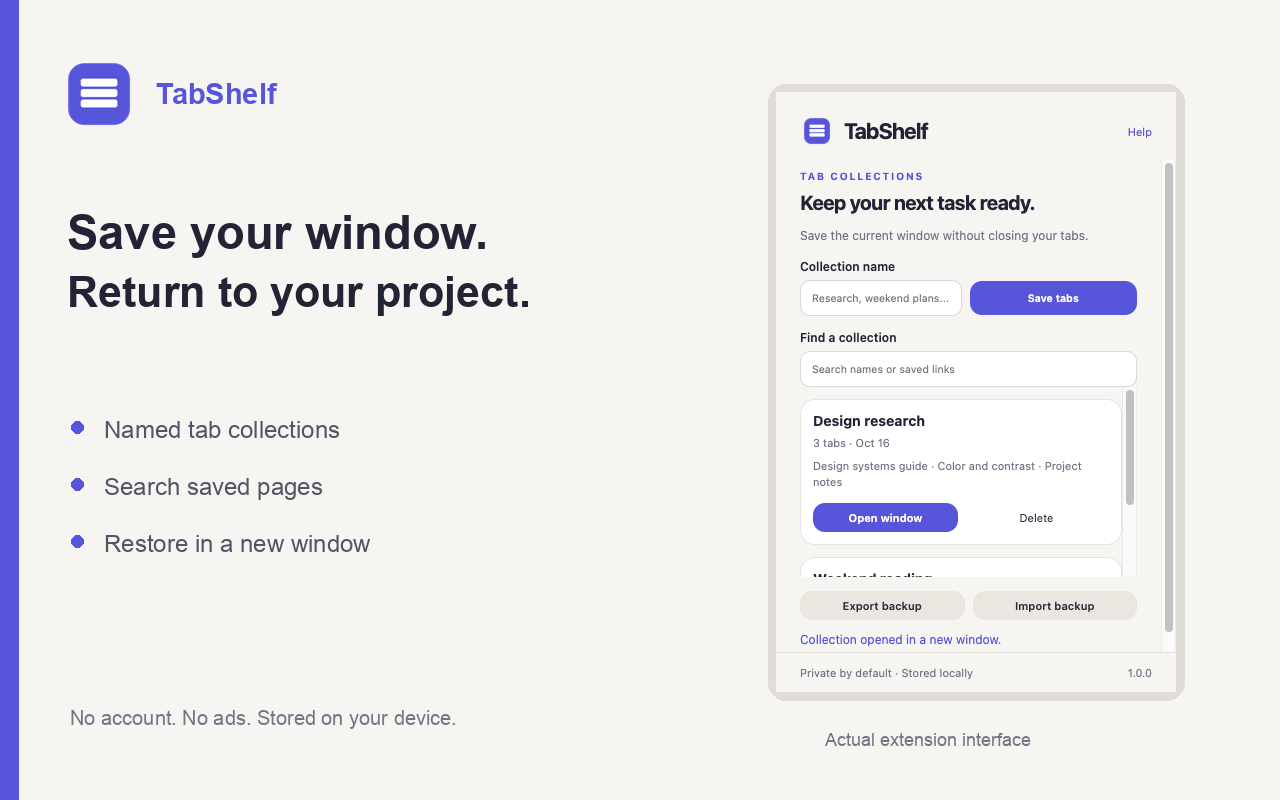
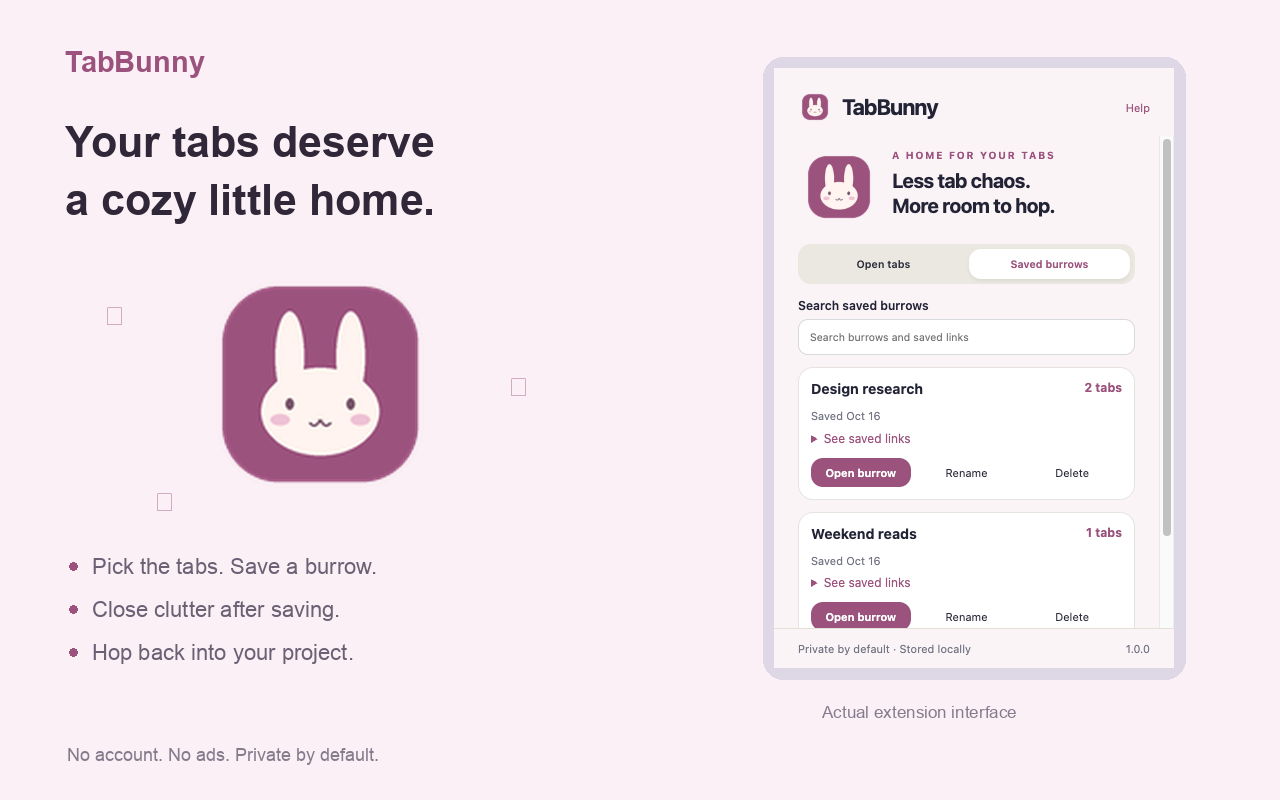
Launch new brand, expanded workflows, and store presentation

diff --git a/extension/popup.js b/extension/popup.js
@@ -1,12 +1,14 @@
 import {$,status,node,download,formatDate,confirmDelete} from './shared.js';
-import {uniqueTabs,parseBackup} from './model.js';
-let collections=[];
-async function load(){collections=(await chrome.storage.local.get('collections')).collections||[];render();}
-function render(){const box=$('#collections');box.replaceChildren();const q=$('#search').value.toLowerCase();const list=collections.filter(c=>[c.name,...c.tabs.map(t=>t.title+' '+t.url)].join(' ').toLowerCase().includes(q));if(!list.length)box.append(node('div',collections.length?'No matching collections.':'Your next task starts here. Save a window to create your first collection.','empty'));for(const c of list){const card=node('article',undefined,'card');card.append(node('h3',c.name),node('p',`${c.tabs.length} tabs · ${formatDate(c.createdAt)}`,'muted'));const preview=node('p',c.tabs.slice(0,3).map(t=>t.title).join(' · '),'muted');card.append(preview);const actions=node('div',undefined,'actions');const restore=node('button','Open window','primary small');restore.onclick=async()=>{restore.disabled=true;try{const win=await chrome.windows.create({url:c.tabs.map(t=>t.url),focused:true});const tabs=await chrome.tabs.query({windowId:win.id});for(let i=0;i<c.tabs.length;i++)if(c.tabs[i].pinned&&tabs[i])await chrome.tabs.update(tabs[i].id,{pinned:true});status('Collection opened in a new window.');}catch{status('Could not open the collection. Try again.');}finally{restore.disabled=false;}};const del=node('button','Delete','quiet small');del.onclick=async()=>{if(!confirmDelete(`Delete "${c.name}"?`))return;try{const latest=(await chrome.storage.local.get('collections')).collections||[];await chrome.storage.local.set({collections:latest.filter(x=>x.id!==c.id)});await load();status('Collection deleted.');}catch{status('Could not delete. Try again.');}};actions.append(restore,del);card.append(actions);box.append(card);}}
-$('#save').onclick=async()=>{const button=$('#save');button.disabled=true;try{const tabs=uniqueTabs(await chrome.tabs.query({currentWindow:true}));if(!tabs.length){status('No HTTP or HTTPS tabs to save in this window.');return;}if(tabs.length>300){status('Save a window with 300 or fewer web tabs.');return;}const latest=(await chrome.storage.local.get('collections')).collections||[];if(latest.length>=100){status('You have 100 collections. Export and remove an old collection first.');return;}const name=$('#name').value.trim()||`Collection ${new Date().toLocaleDateString()}`;await chrome.storage.local.set({collections:[{id:crypto.randomUUID(),name,createdAt:Date.now(),tabs},...latest]});$('#name').value='';await load();status(`Saved ${tabs.length} unique web tabs.`);}catch{status('Could not save. Storage may be full; export and remove old collections.');}finally{button.disabled=false;}};
-$('#search').oninput=render;
-$('#export').onclick=()=>download('tabshelf-backup.json',JSON.stringify({schema:'tabshelf/1',collections},null,2));
-$('#import').onclick=()=>$('#file').click();
-$('#file').onchange=async e=>{const file=e.target.files[0];if(!file)return;try{if(file.size>5000000)throw Error('Choose a backup smaller than 5 MB.');const imported=parseBackup(await file.text());const latest=(await chrome.storage.local.get('collections')).collections||[];if(latest.length+imported.length>100)throw Error('Import would exceed 100 collections.');await chrome.storage.local.set({collections:[...imported,...latest]});await load();status(`Imported ${imported.length} collections.`);}catch(error){status(error.message||'Import failed.');}finally{e.target.value='';}};
-chrome.storage.onChanged.addListener((_,area)=>{if(area==='local')load().catch(()=>status('Could not read saved collections.'));});
-load().catch(()=>status('Could not read saved collections.'));
+import {uniqueTabs,parseBackup,safeWebUrl} from './model.js';
+let collections=[],live=[],selected=new Set();
+async function loadSaved(){collections=(await chrome.storage.local.get('collections')).collections||[];renderSaved();}
+async function loadLive(){live=(await chrome.tabs.query({currentWindow:true})).filter(t=>safeWebUrl(t.url));selected=new Set(live.map(t=>t.id));renderLive();}
+function mode(saved){$('#live-view').hidden=saved;$('#saved-view').hidden=!saved;$('#view-live').classList.toggle('selected',!saved);$('#view-saved').classList.toggle('selected',saved);status('');}
+function renderLive(){const q=$('#live-search').value.toLowerCase();const list=live.filter(t=>(t.title+' '+t.url).toLowerCase().includes(q));const box=$('#live-tabs');box.replaceChildren();if(!list.length)box.append(node('div',live.length?'No matching tabs.':'Open a web page to start your first burrow.','empty'));for(const tab of list){const row=node('div',undefined,'tab-row');const check=node('input');check.type='checkbox';check.checked=selected.has(tab.id);check.setAttribute('aria-label','Select '+tab.title);check.onchange=()=>{check.checked?selected.add(tab.id):selected.delete(tab.id);updateCount();};const info=node('button',undefined,'tab-info');info.append(node('strong',tab.title||tab.url),node('span',new URL(tab.url).hostname,'muted'));info.onclick=async()=>{try{await chrome.tabs.update(tab.id,{active:true});await chrome.windows.update(tab.windowId,{focused:true});}catch{status('This tab has closed. Refresh the popup.');}};row.append(check,info);box.append(row);}updateCount();}
+function updateCount(){$('#selected-count').textContent=`${selected.size} selected`;$('#save').disabled=!selected.size;}
+function renderSaved(){const box=$('#collections');box.replaceChildren();const q=$('#search').value.toLowerCase();const list=collections.filter(c=>[c.name,...c.tabs.map(t=>t.title+' '+t.url)].join(' ').toLowerCase().includes(q));if(!list.length)box.append(node('div',collections.length?'No matching burrows.':'Your bunny is keeping a spot warm. Save some tabs to start a burrow.','empty'));for(const c of list){const card=node('article',undefined,'card');const heading=node('div',undefined,'note-title');heading.append(node('h3',c.name),node('span',`${c.tabs.length} tabs`,'count'));card.append(heading,node('p',`Saved ${formatDate(c.createdAt)}`,'muted'));const details=node('details');details.append(node('summary','See saved links'));for(const tab of c.tabs){const a=node('a',tab.title||tab.url,'saved-link');a.href=tab.url;a.target='_blank';a.rel='noopener noreferrer';details.append(a);}card.append(details);const actions=node('div',undefined,'actions');const restore=node('button','Open burrow','primary small');restore.onclick=async()=>{restore.disabled=true;try{const win=await chrome.windows.create({url:c.tabs.map(t=>t.url),focused:true});const tabs=await chrome.tabs.query({windowId:win.id});for(let i=0;i<c.tabs.length;i++)if(c.tabs[i].pinned&&tabs[i])await chrome.tabs.update(tabs[i].id,{pinned:true});status('Your burrow opened in a new window.');}catch{status('Could not open this burrow. Try again.');}finally{restore.disabled=false;}};const rename=node('button','Rename','quiet small');rename.onclick=async()=>{const name=prompt('Burrow name',c.name)?.trim();if(!name)return;try{const latest=(await chrome.storage.local.get('collections')).collections||[];await chrome.storage.local.set({collections:latest.map(x=>x.id===c.id?{...x,name:name.slice(0,80)}:x)});await loadSaved();}catch{status('Could not rename.');}};const del=node('button','Delete','quiet small');del.onclick=async()=>{if(!confirmDelete(`Delete "${c.name}"?`))return;try{const latest=(await chrome.storage.local.get('collections')).collections||[];await chrome.storage.local.set({collections:latest.filter(x=>x.id!==c.id)});await loadSaved();status('Burrow deleted.');}catch{status('Could not delete.');}};actions.append(restore,rename,del);card.append(actions);box.append(card);}}
+$('#view-live').onclick=()=>mode(false);$('#view-saved').onclick=()=>mode(true);$('#live-search').oninput=renderLive;$('#search').oninput=renderSaved;
+$('#select-all').onclick=()=>{const q=$('#live-search').value.toLowerCase();const visible=live.filter(t=>(t.title+' '+t.url).toLowerCase().includes(q));const all=visible.every(t=>selected.has(t.id));for(const t of visible)all?selected.delete(t.id):selected.add(t.id);renderLive();};
+$('#save').onclick=async()=>{const button=$('#save');button.disabled=true;try{const current=await chrome.tabs.query({currentWindow:true});const chosen=current.filter(t=>selected.has(t.id));const tabs=uniqueTabs(chosen);if(!tabs.length){status('Selected tabs have closed. Reopen the popup.');return;}if(tabs.length>300){status('Select 300 or fewer web tabs.');return;}const latest=(await chrome.storage.local.get('collections')).collections||[];if(latest.length>=100){status('You have 100 burrows. Export and remove an older one first.');return;}const name=$('#name').value.trim()||`Burrow ${new Date().toLocaleDateString()}`;const shouldClose=$('#close-after').checked;if(shouldClose&&!confirm(`Save ${tabs.length} unique links and close ${chosen.length} selected tabs? Unsaved form edits in those tabs will be lost.`))return;await chrome.storage.local.set({collections:[{id:crypto.randomUUID(),name,createdAt:Date.now(),tabs},...latest]});if(shouldClose){try{await chrome.tabs.remove(chosen.map(t=>t.id));}catch{status('Saved safely, but some tabs could not be closed.');}}$('#name').value='';await loadSaved();mode(true);status(`Tucked away ${tabs.length} unique web tabs.`);}catch{status('Could not save. Export and remove older burrows if storage is full.');}finally{button.disabled=false;}};
+$('#export').onclick=()=>download('tabbunny-backup.json',JSON.stringify({schema:'tabshelf/1',collections},null,2));$('#import').onclick=()=>$('#file').click();$('#file').onchange=async ev=>{const file=ev.target.files[0];if(!file)return;try{if(file.size>5000000)throw Error('Choose a backup smaller than 5 MB.');const imported=parseBackup(await file.text());const latest=(await chrome.storage.local.get('collections')).collections||[];if(latest.length+imported.length>100)throw Error('Import would exceed 100 burrows.');await chrome.storage.local.set({collections:[...imported,...latest]});await loadSaved();status(`Imported ${imported.length} burrows.`);}catch(error){status(error.message||'Import failed.');}finally{ev.target.value='';}};
+chrome.storage.onChanged.addListener((_,area)=>{if(area==='local')loadSaved().catch(()=>status('Could not read burrows.'));});Promise.all([loadSaved(),loadLive()]).catch(()=>status('Could not read tabs or saved burrows.'));

diff --git a/extension/popup.html b/extension/popup.html
@@ -1,1 +1,1 @@
-<!doctype html><html lang="en"><head><meta charset="utf-8"><meta name="viewport" content="width=device-width,initial-scale=1"><title>TabShelf</title><link rel="stylesheet" href="style.css"></head><body><header><div><img src="icons/icon48.png" alt=""><h1>TabShelf</h1></div><a class="brand-link" href="privacy.html" target="_blank">Help</a></header><main><div class="eyebrow">TAB COLLECTIONS</div><h2>Keep your next task ready.</h2><p class="muted">Save the current window without closing your tabs.</p><label for="name">Collection name</label><div class="row"><input id="name" maxlength="80" placeholder="Research, weekend plans..."><button id="save" class="primary">Save tabs</button></div><label for="search">Find a collection</label><input id="search" type="search" placeholder="Search names or saved links"><div id="collections" class="cards"></div><div class="row" style="margin-top:14px"><button id="export" class="small">Export backup</button><button id="import" class="small">Import backup</button></div><input type="file" id="file" accept=".json" hidden><p id="status" class="status" role="status" aria-live="polite"></p></main><footer><span>Private by default · Stored locally</span><span>1.0.0</span></footer><script type="module" src="popup.js"></script></body></html>
+<!doctype html><html lang="en"><head><meta charset="utf-8"><meta name="viewport" content="width=device-width,initial-scale=1"><title>TabBunny</title><link rel="stylesheet" href="style.css"></head><body><header><div><img src="icons/icon48.png" alt=""><h1>TabBunny</h1></div><a class="brand-link" href="privacy.html" target="_blank">Help</a></header><main><div class="hero"><img src="icons/icon128.png" alt="A small bunny guarding your tabs"><div><div class="eyebrow">A HOME FOR YOUR TABS</div><h2>Less tab chaos.<br>More room to hop.</h2></div></div><div class="tabs"><button id="view-live" class="selected">Open tabs</button><button id="view-saved">Saved burrows</button></div><section id="live-view"><label for="live-search">Find an open tab</label><input id="live-search" type="search" placeholder="Search titles or domains"><div class="row selection-bar"><button id="select-all" class="quiet small">Select visible</button><span id="selected-count" class="muted"></span></div><div id="live-tabs" class="live-tabs"></div><label for="name">Burrow name</label><input id="name" maxlength="80" placeholder="Project research, weekend reads…"><label class="check"><input id="close-after" type="checkbox">Close selected tabs after saving</label><button id="save" class="primary full">Save selected tabs</button></section><section id="saved-view" hidden><label for="search">Search saved burrows</label><input id="search" type="search" placeholder="Search burrows and saved links"><div id="collections" class="cards"></div><div class="row" style="margin-top:14px"><button id="export" class="small">Export backup</button><button id="import" class="small">Import backup</button></div><input type="file" id="file" accept=".json" hidden></section><p id="status" class="status" role="status" aria-live="polite"></p></main><footer><span>Private by default · Stored locally</span><span>1.1.0</span></footer><script type="module" src="popup.js"></script></body></html>

diff --git a/extension/model.js b/extension/model.js
@@ -1,3 +1,3 @@
 export function safeWebUrl(value) { try { const u=new URL(value);return ['http:','https:'].includes(u.protocol)&&!u.username&&!u.password; } catch{return false;} }
 export function uniqueTabs(tabs) { const seen=new Set();return tabs.filter(t=>safeWebUrl(t.url)&&!seen.has(t.url)&&seen.add(t.url)).map(t=>({url:t.url,title:String(t.title||t.url).slice(0,300),pinned:Boolean(t.pinned)})); }
-export function parseBackup(text) { const data=JSON.parse(text);if(data.schema!=='tabshelf/1'||!Array.isArray(data.collections)||data.collections.length>100)throw Error('Not a TabShelf backup (maximum 100 collections).');return data.collections.map(c=>{if(typeof c.name!=='string'||!Array.isArray(c.tabs)||c.tabs.length>300)throw Error('Invalid collection.');const tabs=uniqueTabs(c.tabs);if(!tabs.length)throw Error('A collection contains no supported web links.');return {id:crypto.randomUUID(),name:c.name.slice(0,80)||'Imported collection',createdAt:Date.now(),tabs};}); }
+export function parseBackup(text) { const data=JSON.parse(text);if(data.schema!=='tabshelf/1'||!Array.isArray(data.collections)||data.collections.length>100)throw Error('Not a TabBunny backup (maximum 100 collections).');return data.collections.map(c=>{if(typeof c.name!=='string'||!Array.isArray(c.tabs)||c.tabs.length>300)throw Error('Invalid collection.');const tabs=uniqueTabs(c.tabs);if(!tabs.length)throw Error('A collection contains no supported web links.');return {id:crypto.randomUUID(),name:c.name.slice(0,80)||'Imported collection',createdAt:Date.now(),tabs};}); }

diff --git a/extension/style.css b/extension/style.css
@@ -4,3 +4,5 @@
 body:not(.library){height:600px;display:flex;flex-direction:column}body:not(.library) main{flex:1;overflow-y:auto;min-height:0}body:not(.library) header,body:not(.library) footer{flex-shrink:0}.library{display:block;height:auto}
 
 #collections{max-height:190px}.card{padding:12px}.card .muted{font-size:11px}
+
+:root{--accent:#9b527d;background:#fbf4f7}.hero{display:flex;align-items:center;gap:12px;margin:0 0 16px}.hero img{width:82px;height:82px}.hero h2{font-size:20px;margin:7px 0}.live-tabs{max-height:165px;overflow-y:auto;background:white;border:1px solid #eadce4;border-radius:12px}.tab-row{display:flex;align-items:center;gap:10px;padding:7px 10px;border-bottom:1px solid #f2edf0}.tab-row:last-child{border:0}.tab-row>input{width:15px;margin:0;flex-shrink:0}.tab-info{padding:0;background:transparent;text-align:left;font-weight:400;min-width:0;flex:1}.tab-info strong{display:block;overflow:hidden;text-overflow:ellipsis;white-space:nowrap;font-size:12px;font-weight:500}.tab-info span{display:block;margin-top:3px;font-size:10px}.selection-bar{margin:4px 0}.selection-bar span{text-align:right}.full{width:100%}details summary{cursor:pointer;font-size:12px;color:var(--accent)}.saved-link{display:block;font-size:12px;margin:8px 0;overflow-wrap:anywhere}#collections{max-height:315px}.check{font-size:11px;line-height:1.4}.primary{background:var(--accent)}

diff --git a/scripts/package.py b/scripts/package.py
@@ -14,7 +14,7 @@ out.parent.mkdir(exist_ok=True)
 with ZipFile(out,'w',ZIP_DEFLATED) as z:
  for p in sorted(source.rglob('*')):
   if p.is_file() and not p.name.startswith('.'):
-   assert p.suffix in {'.json','.html','.css','.js','.png'}
+   assert p.suffix in {'.json','.html','.css','.js','.png','.svg'}
    z.write(p,p.relative_to(source))
 with ZipFile(out) as z: assert z.testzip() is None
 print(f"Validated {m['name']}; created {out.relative_to(ROOT)} ({out.stat().st_size} bytes)")

diff --git a/README.md b/README.md
@@ -1,41 +1,39 @@
-# TabShelf
+# TabBunny
 
-Keep your next task ready.
+Your tabs deserve a cozy little home.
 
-Save and restore tab collections for work, study, and projects. Search your saved sessions and keep everything on your device.
+TabBunny turns a crowded browser window into saved bunny burrows you can return to later. Choose the tabs you want, name the burrow, and keep your next task ready.
+
+## Features
+
+- Search and jump to web tabs in the current window.
+- Save selected tabs into named burrows, with duplicate links removed.
+- Optionally close selected tabs after they have been saved successfully.
+- Browse saved links, rename burrows, and restore them in a new window.
+- Restore pinned state and export or import JSON backups.
+
+## Limits
+
+Stores up to 100 burrows with 300 web tabs each. HTTP and HTTPS pages only; internal browser pages, local files, and URLs with embedded credentials are skipped. TabBunny keeps current tabs open unless you explicitly choose to close them. Saved links do not preserve form edits, cookies, page scroll positions, or login state. Closing tabs can lose unsaved page input.
 
 ## Development
 
-Open `chrome://extensions`, enable Developer mode, choose **Load unpacked**, and select `extension/`. No build or package dependencies are needed.
+Open `chrome://extensions`, enable Developer mode, choose **Load unpacked**, and select `extension/`. All runtime assets are packaged locally.
 
-Run `npm test` for logic tests and `npm run package` to validate and create a clean ZIP in `dist/`.
+Run `npm test` for logic tests. Run `npm run package` to validate and create an upload ZIP in `dist/`. No build step or runtime package dependencies are required.
 
 ## Privacy
 
-See [PRIVACY.md](PRIVACY.md) for stored data and permission explanations. No accounts, analytics, ads, or developer servers.
+Local collections contain names, page URLs and titles, pinned flags, and creation timestamps.
+
+`tabs` reads the current window's URLs, titles, and pinned state when you use the app. `storage` saves your burrows on this device. No website content is read.
+
+See [PRIVACY.md](PRIVACY.md). No developer servers, advertising, or analytics.
 
 ## Support
 
-Report bugs through this repository's issue tracker. Include reproducible steps and the extension version, with private information removed.
+Report reproducible bugs through this repository's issue tracker. Remove private information first.
 
 ## License
 
 MIT.
-
-## Features and limits
-
-TabShelf helps you pick up a project without rebuilding your browser window. Save a named collection, search by title or URL, and restore it in a new window.
-
-FEATURES
-- Save up to 100 tab collections, with up to 300 web tabs per collection.
-- Deduplicate repeated URLs and restore pinned tabs.
-- Search collection names, page titles, and saved links.
-- Export and import portable JSON backups.
-- Keep saved collections locally; no account or cloud service.
-
-TabShelf saves HTTP and HTTPS tabs from the current window. It keeps your current tabs open. Restoring links does not restore cookies, form input, browser history, or logged-in sessions. Internal browser pages and local files are skipped.
-
-PRIVACY
-Tab access is used when you save a window. Saved page titles and URLs stay in local extension storage. No analytics, advertising, or developer servers.
-
-Open the extension, name a collection, and choose Save tabs. Choose Open window to return to it.

diff --git a/store/listing.md b/store/listing.md
@@ -1,8 +1,8 @@
-# TabShelf
+# TabBunny
 
 ## Category
 
-Productivity
+Workflow & Planning
 
 ## Language
 
@@ -10,18 +10,22 @@ English
 
 ## Description
 
-TabShelf helps you pick up a project without rebuilding your browser window. Save a named collection, search by title or URL, and restore it in a new window.
+Your tabs deserve a cozy little home.
+
+TabBunny turns a crowded browser window into saved bunny burrows you can return to later. Choose the tabs you want, name the burrow, and keep your next task ready.
 
 FEATURES
-- Save up to 100 tab collections, with up to 300 web tabs per collection.
-- Deduplicate repeated URLs and restore pinned tabs.
-- Search collection names, page titles, and saved links.
-- Export and import portable JSON backups.
-- Keep saved collections locally; no account or cloud service.
+- Search and jump to web tabs in the current window.
+- Save selected tabs into named burrows, with duplicate links removed.
+- Optionally close selected tabs after they have been saved successfully.
+- Browse saved links, rename burrows, and restore them in a new window.
+- Restore pinned state and export or import JSON backups.
 
-TabShelf saves HTTP and HTTPS tabs from the current window. It keeps your current tabs open. Restoring links does not restore cookies, form input, browser history, or logged-in sessions. Internal browser pages and local files are skipped.
+GOOD TO KNOW
+Stores up to 100 burrows with 300 web tabs each. HTTP and HTTPS pages only; internal browser pages, local files, and URLs with embedded credentials are skipped. TabBunny keeps current tabs open unless you explicitly choose to close them. Saved links do not preserve form edits, cookies, page scroll positions, or login state. Closing tabs can lose unsaved page input.
 
-PRIVACY
-Tab access is used when you save a window. Saved page titles and URLs stay in local extension storage. No analytics, advertising, or developer servers.
+PRIVATE BY DEFAULT
+No account, analytics, advertising, cloud synchronization, or developer servers. Processing happens on your device. Saved data uses local extension storage. Exported files may contain private information; keep them somewhere you trust.
 
-Open the extension, name a collection, and choose Save tabs. Choose Open window to return to it.
+SUPPORT
+Report bugs or suggestions through the support link. Please remove private URLs, notes, and credentials from reports.

diff --git a/PRIVACY.md b/PRIVACY.md
@@ -1,22 +1,21 @@
-# TabShelf privacy policy
+# TabBunny privacy policy
 
 Effective date: 2026-10-16.
 
-## Data and processing
+## Local data and processing
 
-Saved collection names, page URLs, page titles, pinned flags, and timestamps.
+Local collections contain names, page URLs and titles, pinned flags, and creation timestamps.
 
-All processing happens within the extension on your device. We do not collect, receive, transmit, sell, or share personal data. The extension has no analytics, advertising, remote executable code, developer server, or account requirement.
+Processing happens on your device. The developer does not receive, sell, or transmit this data. The extension has no developer servers, accounts, cloud sync, analytics, advertising, or remote executable code. Local processing can involve sensitive text or URLs supplied by you; the store disclosures describe the data handled by the extension even though it is not sent to the developer.
 
 ## Permissions
 
-- `tabs`: read the URLs and titles in the current window when you save a collection and restore its pinned tabs.
-- `storage`: persist collections on this device.
+`tabs` reads the current window's URLs, titles, and pinned state when you use the app. `storage` saves your burrows on this device. No website content is read.
 
 ## Retention and control
 
-Local data remains until you remove it through the app, clear extension data, or uninstall the extension. Export and delete controls are available for saved collections and notes. Exported files are controlled by you and may contain private information. Chrome and the Web Store have separate Google privacy policies.
+Local saved data remains until you delete it, clear extension data, or uninstall the extension. Exported files and clipboard contents are controlled by you. The library and collection tools provide delete and backup controls. LinkLoom keeps no persistent link history. FocusPet retains up to 90 days of daily counts and a lifetime companion total. Chrome and its Web Store have separate Google privacy policies.
 
 ## Contact
 
-Use the repository issue tracker or the Chrome Web Store support contact for privacy questions. Do not post private data in public issues.
+Use this repository's issue tracker or the Chrome Web Store support contact for privacy questions. Do not post private content in public issues.

diff --git a/store/asset-notes.md b/store/asset-notes.md
@@ -1,0 +1,5 @@
+# Store assets
+
+Promotional artwork uses the extension's original vector and geometric mascot system. Overview images combine promotional typography with an actual isolated-browser UI capture. Capture content uses fictional example domains and local data. No user account information is included.
+
+Required assets: RGB PNG overview at 1280×800 and small promotional tile at 440×280. Optional marquee: RGB PNG at 1400×560. Icons use RGBA PNG at 16, 32, 48, and 128 pixels.

diff --git a/store/reviewer-instructions.md b/store/reviewer-instructions.md
@@ -1,0 +1,3 @@
+# Reviewer instructions
+
+Open web pages, click TabBunny, select tabs, enter a name, and choose Save selected tabs. Switch to Saved burrows and open one. JSON backup import accepts TabBunny and earlier TabShelf backups. No login is needed.
